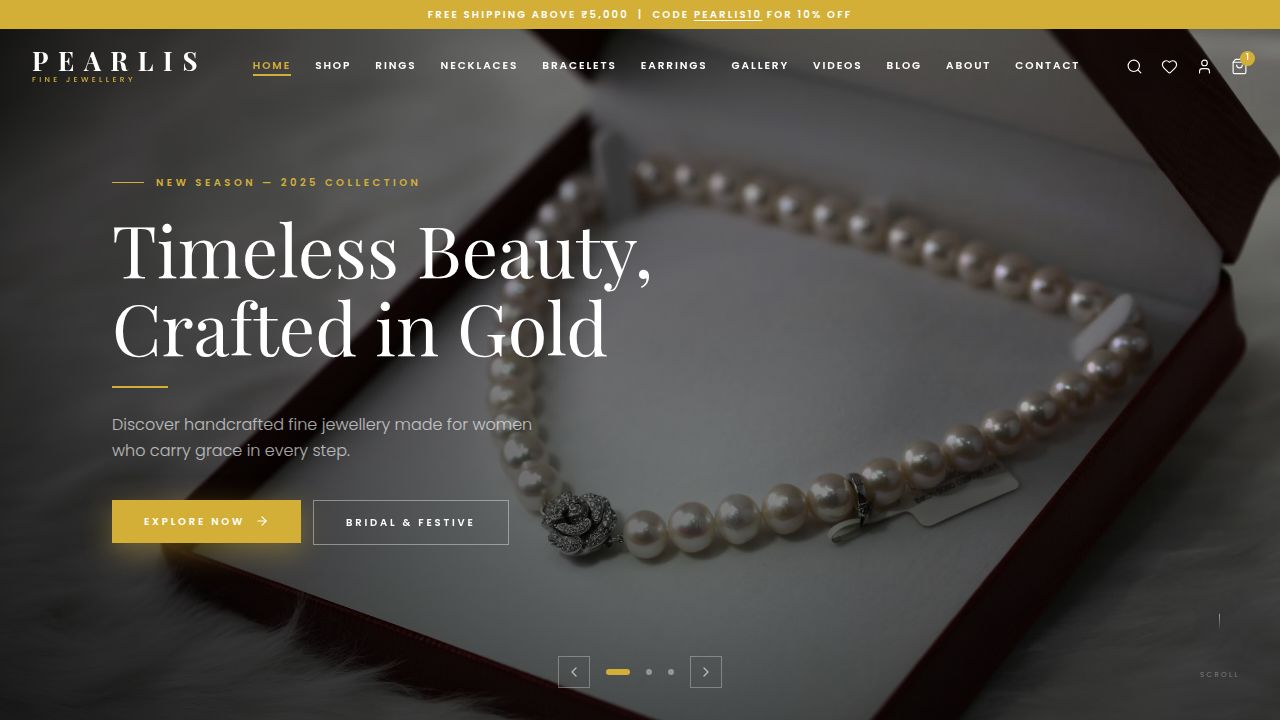
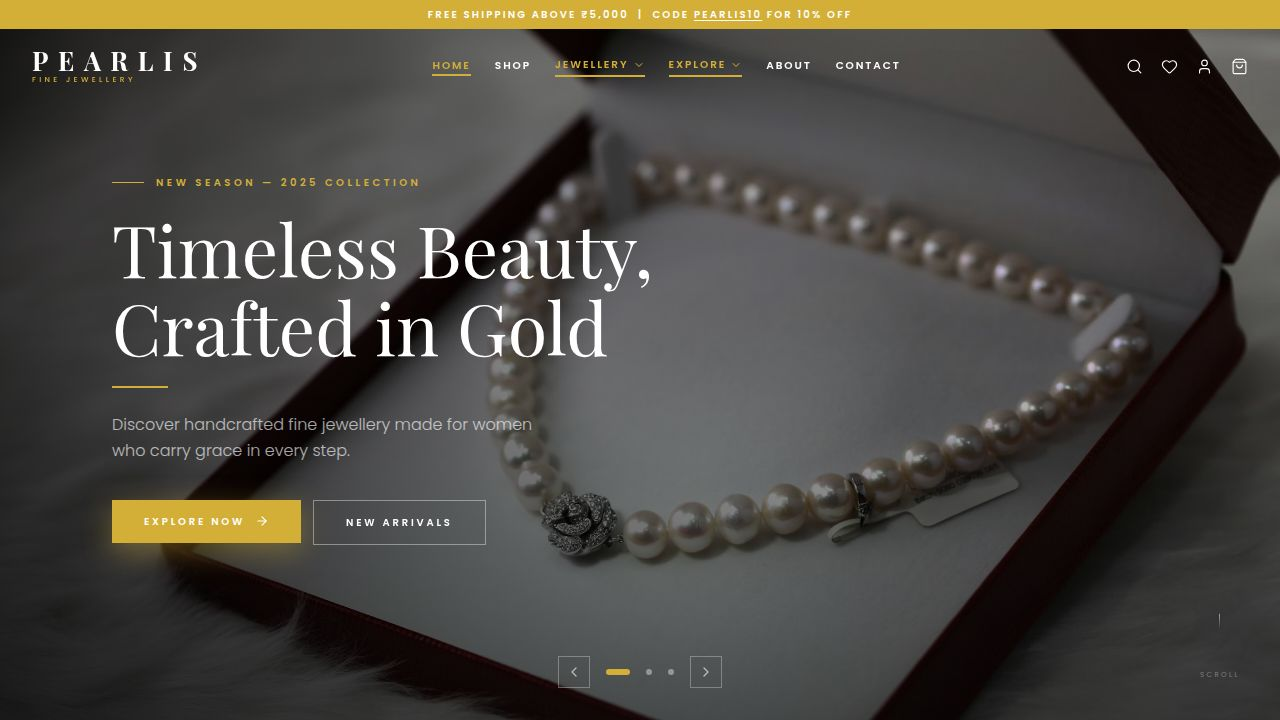
Improve cart functionality and user session management
Implement guest session ID handling via `x-session-id` header and fix cart item quantity updates.

Replit-Commit-Author: Agent
Replit-Commit-Session-Id: 0d3ef455-b479-4ac4-9ea5-9911cda7718f
Replit-Commit-Checkpoint-Type: full_checkpoint
Replit-Commit-Event-Id: 12732a4e-59c1-4f3a-9504-ec4857a663ea
Replit-Commit-Screenshot-Url: https://storage.googleapis.com/screenshot-production-us-central1/84e968ff-d331-4567-974d-377fba5f5af5/0d3ef455-b479-4ac4-9ea5-9911cda7718f/L4wovG6
Replit-Helium-Checkpoint-Created: true

diff --git a/lib/api-client-react/src/custom-fetch.ts b/lib/api-client-react/src/custom-fetch.ts
@@ -17,6 +17,15 @@ const DEFAULT_JSON_ACCEPT = "application/json, application/problem+json";
 
 let _baseUrl: string | null = null;
 let _authTokenGetter: AuthTokenGetter | null = null;
+let _sessionIdGetter: (() => string | null) | null = null;
+
+/**
+ * Register a getter that supplies a guest session ID.
+ * When set, the value is sent as the `x-session-id` request header.
+ */
+export function setSessionIdGetter(getter: (() => string | null) | null): void {
+  _sessionIdGetter = getter;
+}
 
 /**
  * Set a base URL that is prepended to every relative request URL
@@ -355,6 +364,14 @@ export async function customFetch<T = unknown>(
     const token = await _authTokenGetter();
     if (token) {
       headers.set("authorization", `Bearer ${token}`);
+    }
+  }
+
+  // Attach guest session ID when no auth token is present.
+  if (_sessionIdGetter && !headers.has("x-session-id")) {
+    const sessionId = _sessionIdGetter();
+    if (sessionId) {
+      headers.set("x-session-id", sessionId);
     }
   }
 

diff --git a/artifacts/pearlis/src/contexts/AuthContext.tsx b/artifacts/pearlis/src/contexts/AuthContext.tsx
@@ -1,5 +1,14 @@
 import React, { createContext, useContext, useEffect, useState } from "react";
-import { useGetMe, setAuthTokenGetter, User } from "@workspace/api-client-react";
+import { useGetMe, setAuthTokenGetter, setSessionIdGetter, User } from "@workspace/api-client-react";
+
+function getOrCreateSessionId(): string {
+  let id = localStorage.getItem("pearlis_session_id");
+  if (!id) {
+    id = `sess-${Date.now()}-${Math.random().toString(36).slice(2, 10)}`;
+    localStorage.setItem("pearlis_session_id", id);
+  }
+  return id;
+}
 
 interface AuthContextType {
   user: User | null;
@@ -14,9 +23,10 @@ const AuthContext = createContext<AuthContextType | undefined>(undefined);
 export function AuthProvider({ children }: { children: React.ReactNode }) {
   const [token, setToken] = useState<string | null>(localStorage.getItem("token"));
   
-  // Setup the token getter for the API client
+  // Setup the token getter and session ID getter for the API client
   useEffect(() => {
     setAuthTokenGetter(() => localStorage.getItem("token"));
+    setSessionIdGetter(() => getOrCreateSessionId());
   }, []);
 
   const { data: user, isLoading: isUserLoading } = useGetMe({

diff --git a/artifacts/pearlis/src/pages/cart.tsx b/artifacts/pearlis/src/pages/cart.tsx
@@ -18,7 +18,10 @@ export default function Cart() {
   const removeItem = useRemoveFromCart();
 
   const handleUpdateQty = (productId: number, quantity: number) => {
-    if (quantity < 1) return;
+    if (quantity < 1) {
+      handleRemove(productId);
+      return;
+    }
     updateItem.mutate({ productId, data: { quantity } }, {
       onSuccess: () => queryClient.invalidateQueries({ queryKey: getGetCartQueryKey() }),
     });

diff --git a/lib/api-client-react/src/index.ts b/lib/api-client-react/src/index.ts
@@ -1,4 +1,4 @@
 export * from "./generated/api";
 export * from "./generated/api.schemas";
-export { setBaseUrl, setAuthTokenGetter } from "./custom-fetch";
+export { setBaseUrl, setAuthTokenGetter, setSessionIdGetter } from "./custom-fetch";
 export type { AuthTokenGetter } from "./custom-fetch";